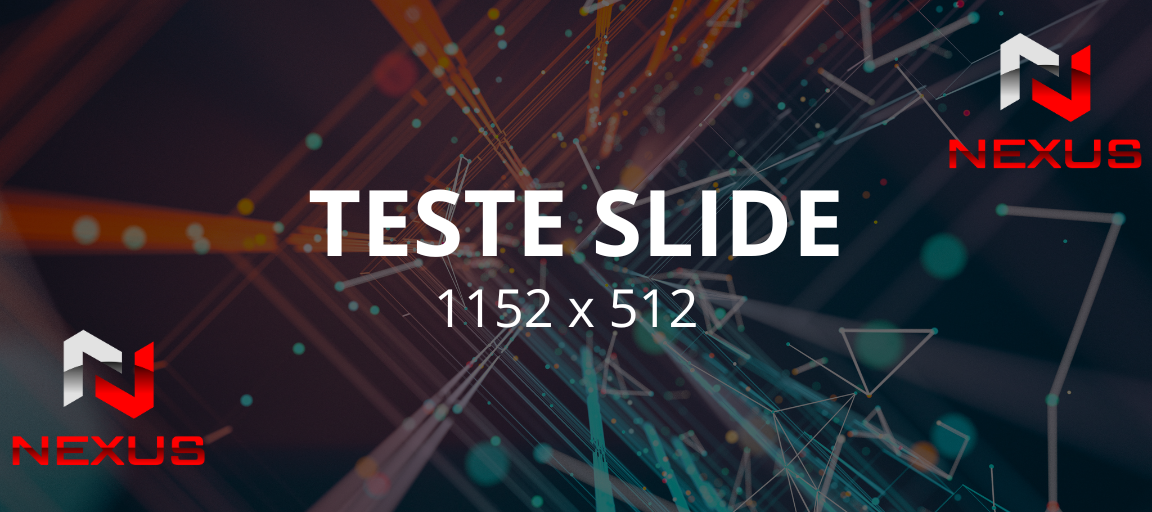
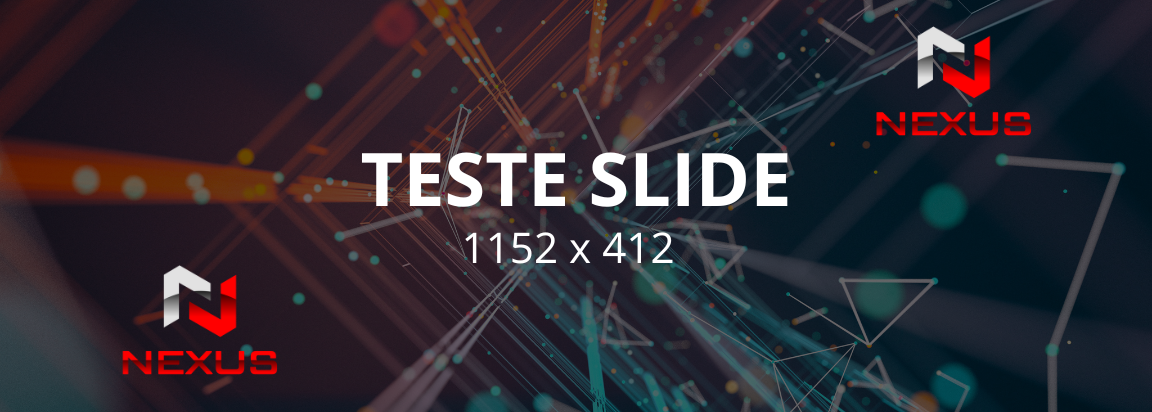
Feat: Footer

diff --git a/src/app/parts/footer.tsx b/src/app/parts/footer.tsx
@@ -1,7 +1,93 @@
+import Image from "next/image";
+
 export default function Footer() {
     return (
-        <footer className="text-xl bg-red-400 w-screen w-full bottom-0">
-            Footer
+        <footer className="text-lg bg-neutral-900 bottom-0 px-4 py-10 text-white mt-20">
+            <div className="px-4 xl:container xl:w-full xl:m-auto">
+                <div className="-mx-4 flex flex-wrap">
+                    <div className="w-full px-4 sm:w-1/2 md:w-5/12 lg:w-3/12 xl:w-3/12">
+                        <div className="mb-12 flex flex-col items-center">
+                            <a href="#">
+                                <Image src="/img/logo_nexus_hd.png" alt="Nexus Midia Logo" className="w-24 min-w-24" width={100} height={88}></Image>
+                            </a>
+                            <span className="text-neutral-400 text-xl text-balance">Iluminando o caminho para <br></br>o sucesso da sua marca!</span>
+                        </div>
+                    </div>
+                    <div className="w-1/2 px-4 md:w-3/12 lg:w-3/12 xl:w-2/12">
+                        <div className="mb-12">
+                            <h1 className="font-heading mb-6 font-heading text-xl font-medium text-dark dark:text-white">Suporte</h1>
+                            <ul className="space-y-3">
+                                <li className="text-neutral-400">FAQ</li>
+                                <li className="text-neutral-400">Problemas</li>
+                            </ul>
+                        </div>
+                    </div>
+                    <div className="w-1/2 px-4 md:w-3/12 lg:w-3/12 xl:w-2/12">
+                        <div className="mb-12">
+                            <h1 className="font-heading mb-6 font-heading text-xl font-medium text-dark dark:text-white text-nowrap">Saiba Mais</h1>
+                            <ul className="space-y-3">
+                                <li className="text-neutral-400">Pontos</li>
+                                <li className="text-neutral-400">Representantes</li>
+                                <li className="text-neutral-400">Parceiros</li>
+                            </ul>
+                        </div>
+                    </div>
+                    <div className="w-full px-4 sm:w-1/2 md:w-5/12 lg:w-3/12 xl:w-2/12">
+                        <div className="mb-12">
+                            <h1 className="font-heading mb-6 font-heading text-xl font-medium text-dark dark:text-white">Entre em Contato</h1>
+                            <ul className="space-y-3">
+                                <li className="text-neutral-400">(87) 8119-6876</li>
+                                <li className="text-neutral-400">contato@nexusled.com.br</li>
+                            </ul>
+                        </div>
+                    </div>
+                    <div className="w-full px-4 sm:w-1/2 md:w-5/12 lg:w-3/12 xl:w-2/12">
+                        <div className="mb-12">
+                            <h1 className="font-heading mb-6 font-heading text-xl font-medium text-dark dark:text-white">Outros</h1>
+                            <ul className="space-y-3">
+                                <li className="text-neutral-400">Prêmio Nexus 2024</li>
+                            </ul>
+                        </div>
+                    </div>
+                </div>
+                <div className="mt-5 border-t-2 border-neutral-400 pt-2 flex justify-center">
+                    <span className="text-neutral-400 text-base">© 2025 Nexus Midia. Todos os direitos reservados.</span>
+                </div>
+            </div>
         </footer>
     )
 }
+
+// export default function Footer() {
+//     return (
+//         <footer className="text-xl bg-neutral-900 w-screen w-full bottom-0 px-10 py-10 text-white">
+//             <div className="flex flex-col justify-between gap-[2vh] lg:flex-row lg:gap-[12vw]">
+//                 <div className="flex flex-col items-center justify-center pb-2">
+//                     <a href="#">
+//                         <Image src="/img/logo_nexus_hd.png" alt="Nexus Midia Logo" className="w-28 min-w-28" width={100} height={88}></Image>
+//                     </a>
+//                     <span className="text-neutral-400 text-xl text-balance">Iluminando o caminho para <br></br>o sucesso da sua marca!</span>
+//                 </div>
+//                 <div className="flex flex-col gap-1">
+//                     <h1 className="font-bold mb-1">Suporte</h1>
+//                     <span className="text-neutral-400 text-lg">FAQ</span>
+//                     <span className="text-neutral-400 text-lg">Problemas</span>
+//                     <span className="text-neutral-400 text-lg">Item 3</span>
+//                 </div>
+//                 <div className="flex flex-col gap-1">
+//                     <h1 className="font-bold mb-1">Saiba Mais</h1>
+//                     <span className="text-neutral-400 text-lg">Pontos</span>
+//                     <span className="text-neutral-400 text-lg">Representantes</span>
+//                 </div>
+//                 <div className="flex flex-col gap-1">
+//                     <h1 className="font-bold mb-1">Entre em Contato</h1>
+//                     <span className="text-neutral-400 text-lg">(87) 8119-6876</span>
+//                     <span className="text-neutral-400 text-lg">nexus@Email</span>
+//                 </div>
+//             </div>
+//             <div className="mt-5 border-t-2 border-neutral-400 pt-2 flex justify-center">
+//                 <span className="text-neutral-400 text-base">© 2025 Nexus Midia. Todos os direitos reservados.</span>
+//             </div>
+//         </footer>
+//     )
+// }

diff --git a/src/app/parts/header.tsx b/src/app/parts/header.tsx
@@ -17,15 +17,15 @@ export default function Header() {
     }
 
     return (
-        <header className="text-xl bg-white w-screen w-full w-screen shadow-[0px_21px_19px_-7px_rgba(0,_0,_0,_0.1)] z-10">
+        <header className="text-lg bg-white shadow-[0px_21px_19px_-7px_rgba(0,_0,_0,_0.1)]">
             <nav className="flex justify-between items-center mx-auto px-2 xl:px-10 lg:px-4 relative">
                 <div>
                     <a href="#">
-                        <Image src="/img/logo_nexus_hd.png" alt="Nexus Midia Logo" className="w-18 min-w-16" width={100} height={88}></Image>
+                        <Image src="/img/logo_nexus_hd.png" alt="Nexus Midia Logo" className="w-[5rem] min-w-16" width={100} height={88}></Image>
                     </a>
                 </div>
-                <div className={`absolute bg-white lg:min-h-fit left-0 w-full flex px-5 py-4 items-center lg:static lg:w-auto lg:relative lg:top-0 lg:min-h-[100%] shadow-[0px_21px_19px_-7px_rgba(0,_0,_0,_0.1)] lg:shadow-none ${open ? 'top-[100%]' : 'top-[-200vh]'} `}>
-                    <ul className="flex flex-col justify-center flex-1 items-center gap-8 text-xl lg:flex-row lg:items-center lg:gap-[2vw]">
+                <div className={`absolute z-[100] bg-white lg:min-h-fit left-0 w-full flex px-5 py-4 items-center lg:static lg:w-auto lg:relative lg:top-0 lg:min-h-[100%] shadow-[0px_21px_19px_-7px_rgba(0,_0,_0,_0.1)] lg:shadow-none ${open ? 'top-[100%]' : 'top-[-200vh]'} `}>
+                    <ul className="flex flex-col justify-center flex-1 items-center gap-8 text-lg lg:flex-row lg:items-center lg:gap-[2vw]">
                         <li>
                             <Link href="#" className="font-bold hover:text-gray-400">Home</Link>
                         </li>
@@ -44,12 +44,12 @@ export default function Header() {
                     </ul>
                 </div>
                 <div className="flex gap-4 items-center">
-                    <Link href="#" className="bg-[#ffbd59] hover:bg-[#e3aa4f] text-nowrap p-3 rounded-full hidden xs:flex xs:items-center xs:gap-2">
+                    <Link href="#" className="bg-[#ffbd59] hover:bg-[#e3aa4f] text-nowrap p-2 rounded-full hidden xs:flex xs:items-center xs:gap-2">
                         <FaAward className="text-3xl" />
                         <span><b>Prêmio Nexus</b></span>
                         <span className="hidden xl:block">2024</span>
                     </Link>
-                    <Link href="#" className="bg-[#dc0000] hover:bg-[#bd4444] text-nowrap text-white p-3 rounded-full hidden sm:flex sm:gap-1 sm:items-center outline hover:outline-4 hover:outline-red-400">
+                    <Link href="#" className="bg-[#dc0000] hover:bg-[#bd4444] text-nowrap text-white p-2 rounded-full hidden sm:flex sm:gap-1 sm:items-center outline hover:outline-4 hover:outline-red-400">
                     <TbUpload className="text-3xl"/>
                     Anunciar
                     </Link>

diff --git a/src/app/parts/mainContent.tsx b/src/app/parts/mainContent.tsx
@@ -34,15 +34,17 @@ export default function MainContent() {
                             <Image src="/img/TESTE SLIDE.png" alt="teste" width={1152} height={512}></Image>
                         </div>
                         <div className="embla__slide bg-red-400">
+                            <a href="https://nexusled.com.br">
                             <Image src="/img/TESTE SLIDE.png" alt="teste" width={1152} height={512}></Image>
+                            </a>
                         </div>
                     </div>
                 </div>
-                <button className="embla__prev p-2 absolute top-1/2 left-2 transform -translate-y-1/2 bg-white rounded-full shadow-lg" onClick={scrollPrev}>
-                    <FaArrowLeft className="text-4xl" />
+                <button className="embla__prev p-2 absolute top-1/2 left-2 transform -translate-y-1/2 bg-white rounded-full shadow-lg opacity-[70%]" onClick={scrollPrev}>
+                    <FaArrowLeft className="text-2xl" />
                 </button>
-                <button className="embla__next p-2 absolute top-1/2 right-2 transform -translate-y-1/2 bg-white rounded-full shadow-lg" onClick={scrollNext}>
-                    <FaArrowRight className="text-4xl" />
+                <button className="embla__next p-2 absolute top-1/2 right-2 transform -translate-y-1/2 bg-white rounded-full shadow-lg opacity-[70%]" onClick={scrollNext}>
+                    <FaArrowRight className="text-2xl" />
                 </button>
             </div>
         </div>

diff --git a/src/app/page.tsx b/src/app/page.tsx
@@ -6,7 +6,7 @@ import MainContent from "./parts/mainContent";
 
 export default function Home() {
   return (
-    <div className="flex flex-col h-full">
+    <div className="">
       <Header></Header>
       <MainContent></MainContent>
       <Footer></Footer>

diff --git a/src/app/globals.css b/src/app/globals.css
@@ -32,7 +32,7 @@ body {
   flex: 0 0 100%;
   min-width: 0;
   max-width: 1152px;
-  max-height: 312px;
+  max-height: 412px;
   margin-left: 20px;
 }
 
